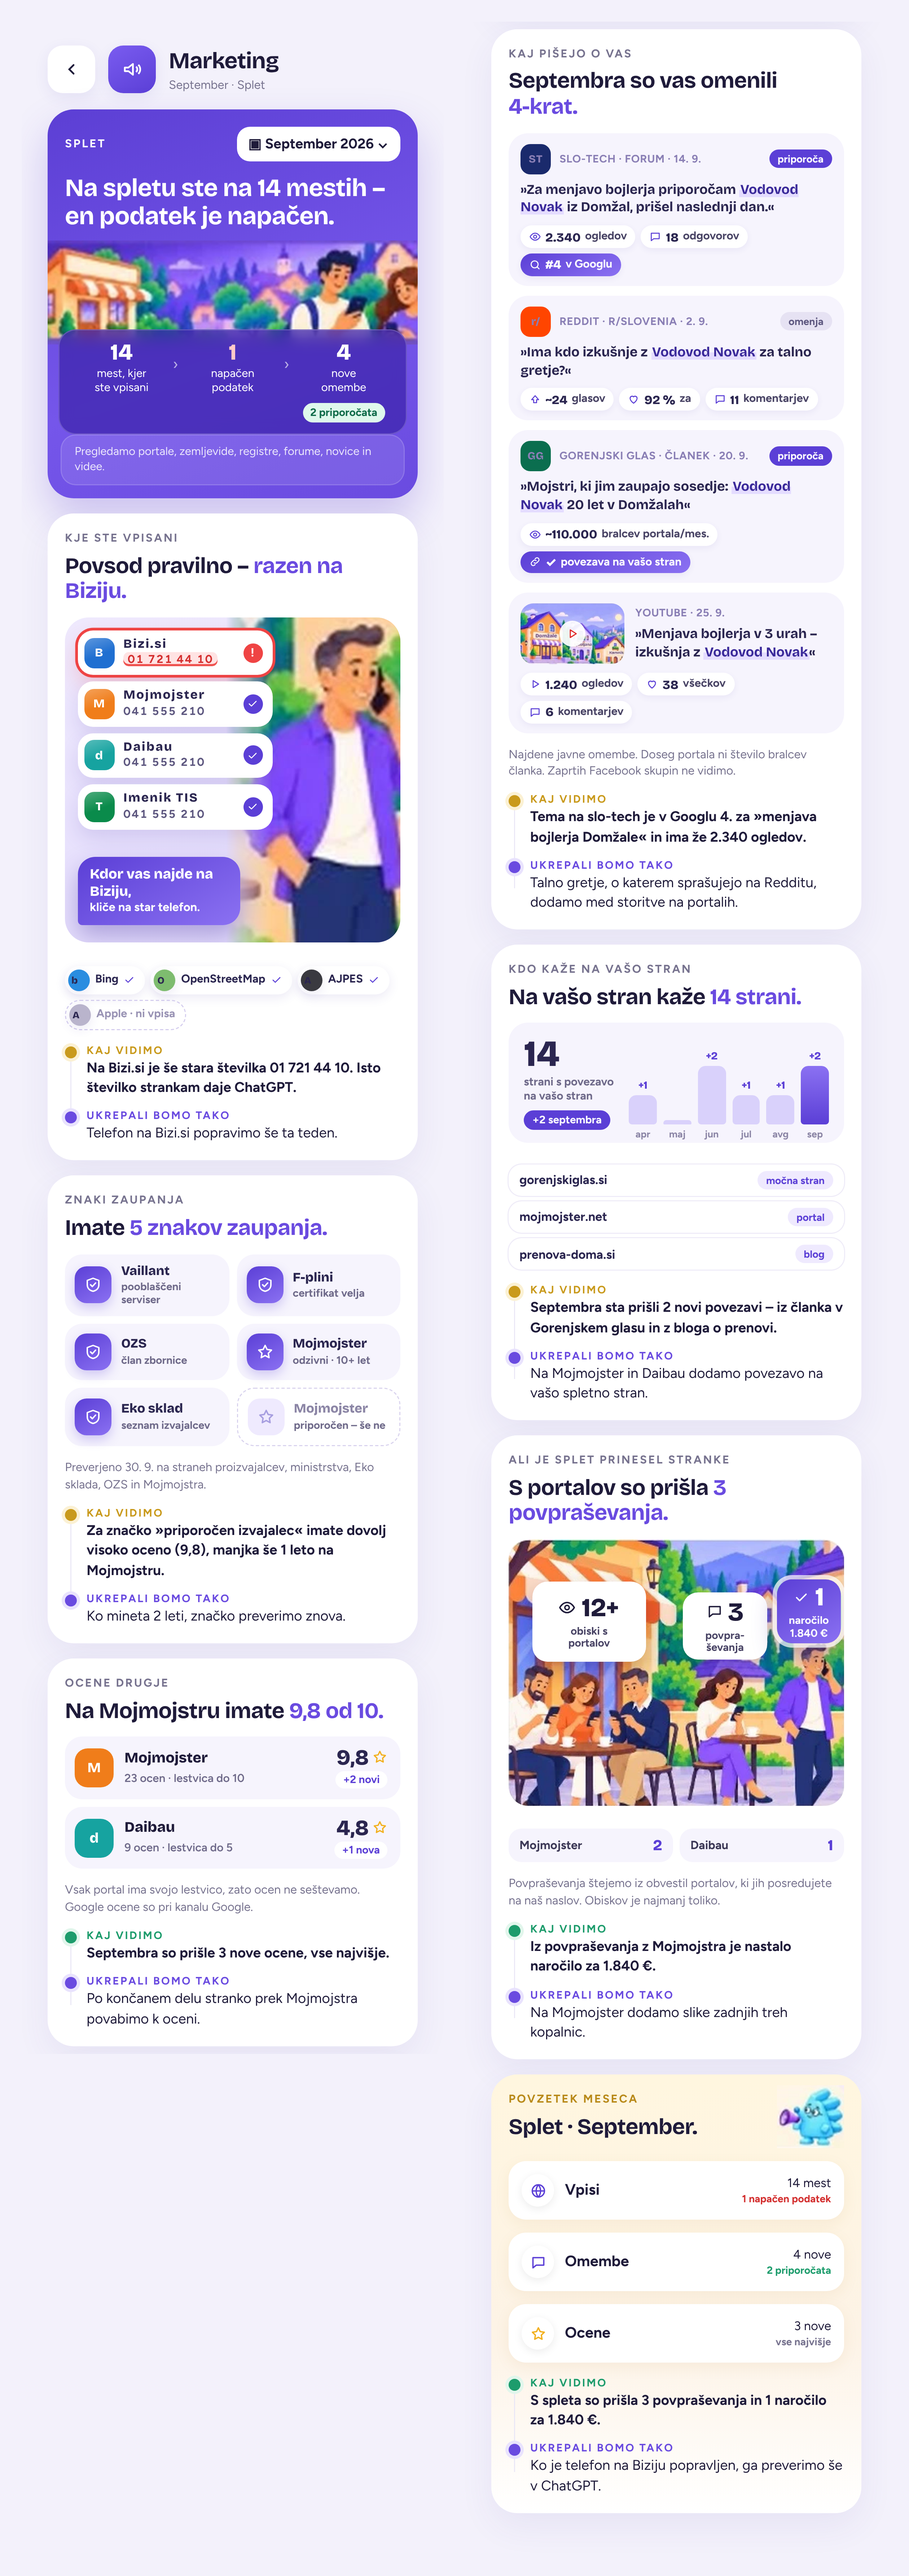
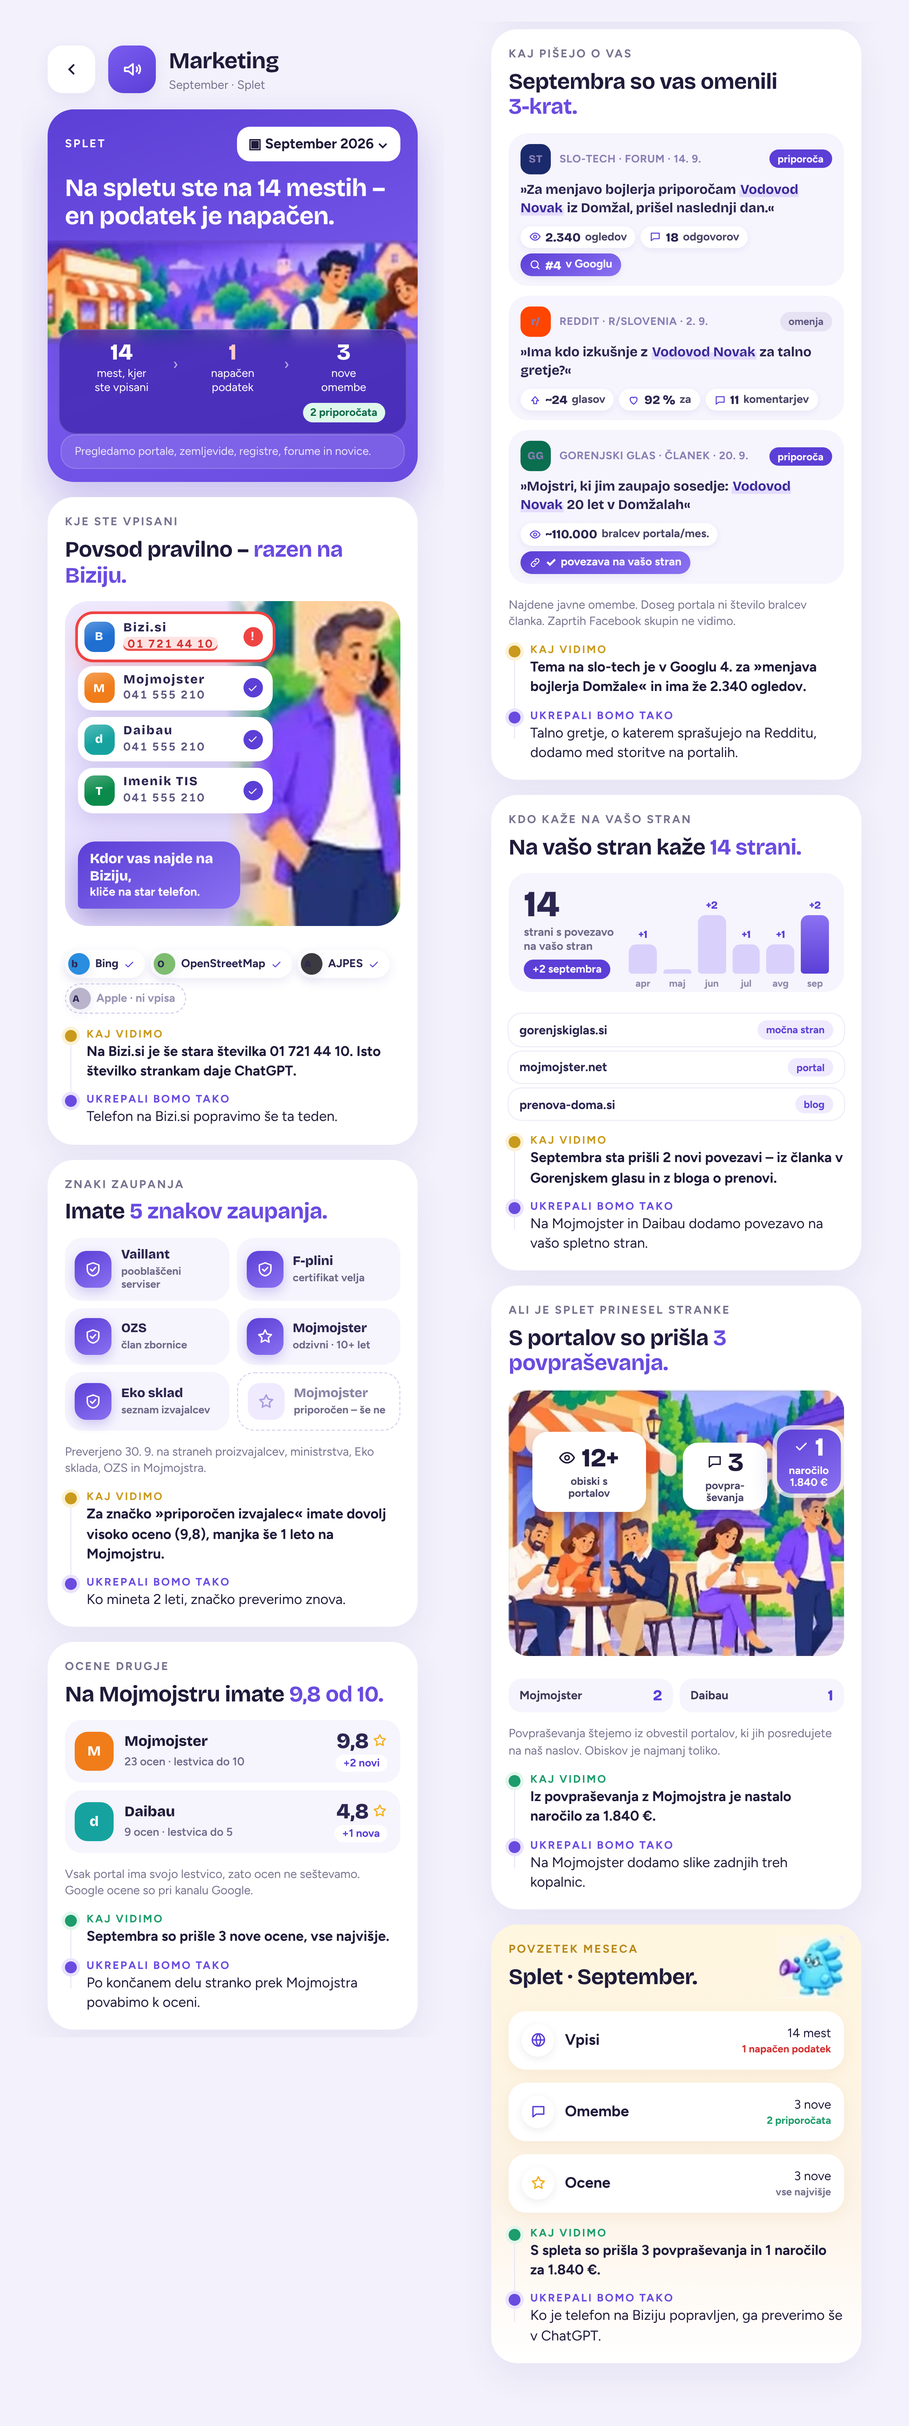
docs: Splet – YouTube izločen v ločen kanal
Claude-Session: https://claude.ai/code/session_01WHRGRb6JxsE1so6sHvV2Pq

Changed region(s): [[0.5262, 0.0, 0.9595, 0.9688], [0.031, 0.0, 0.4643, 0.8125]]

diff --git a/docs/MARKETING-ANALITIKA-SPLET-PREVERBA.md b/docs/MARKETING-ANALITIKA-SPLET-PREVERBA.md
@@ -8,10 +8,10 @@ Datum: 7. 10. 2026. Raziskava je bila razdeljena na devet delov:
 5. številke Reddita;
 6. številke forumov in portalov;
 7. novice in mediji;
-8. povezave, blogi in YouTube;
+8. povezave, blogi in YouTube (YouTube je odslej ločen kanal);
 9. popoln popis vrst mest.
 
-**Kaj je Splet:** vsa mesta na internetu zunaj obrtnikove spletne strani, Google profila in lastnih družbenih omrežij, kjer je obrtnik **vpisan, omenjen, priporočen ali povezan**. To so portali, zemljevidi, registri, partnerji proizvajalcev, forumi, Reddit, novice, občinska glasila, blogi in videi.
+**Kaj je Splet:** vsa mesta na internetu zunaj obrtnikove spletne strani, Google profila, lastnih družbenih omrežij in **YouTuba (ločen kanal)**, kjer je obrtnik **vpisan, omenjen, priporočen ali povezan**. To so portali, zemljevidi, registri, partnerji proizvajalcev, forumi, Reddit, novice, občinska glasila in blogi.
 
 **Omejitev raziskave:** omrežni proxy je blokiral neposredno branje večine strani. Podatki so iz iskalnikov in sekundarnih virov. Kar ni potrjeno na viru, je označeno z **[preveri]**. Pogojev uporabe portalov nismo prebrali v celoti. Do pravne preverbe velja: **brez množičnega strganja**. Dovoljeni so samo API-ji, profili posameznega obrtnika v nizki frekvenci in podatki, ki jih vnese ali poveže obrtnik.
 
@@ -30,7 +30,6 @@ Datum: 7. 10. 2026. Raziskava je bila razdeljena na devet delov:
    - forumska tema: ogledi, odgovori, zadnja aktivnost;
    - Reddit: glasovi, delež glasov za, komentarji, velikost skupnosti;
    - članek: doseg portala na mesec (MOSS), povezava na vašo stran;
-   - video: ogledi, všečki, komentarji;
    - za vse: **položaj v Googlu** za lokalno iskanje.
 3. **Omemb je malo** (0–3 na leto na vrsto). Zato ne kažemo odstotkov tona ali trendov. Kažemo vsako omembo posebej, z njenimi številkami.
 4. **Napačen podatek na vpisu je najpomembnejša številka strani.** Imeniki in zemljevidi (Bing, Apple, Foursquare, OSM) so ~42 % virov, ki jih navajajo AI asistenti. Napačen telefon na Biziju gre naravnost v ChatGPT.
@@ -53,7 +52,7 @@ Datum: 7. 10. 2026. Raziskava je bila razdeljena na devet delov:
 | 7 | Reddit | r/Slovenia, r/ljubljana | r/de, r/Handwerker, r/Austria | nizek v SI, srednji v DE |
 | 8 | Novice in mediji | 24ur, Žurnal24, regionalni (Gorenjski glas, Sobotainfo, Dolenjski list …), **občinska glasila** (npr. Slamnik) | Lokalzeitung, Gemeindeblatt, meinbezirk.at | srednji (redko, a močno) |
 | 9 | Blogi in seznami »najboljši« | blogi o prenovi, »10 najboljših vodoinštalaterjev« | isto | srednji (AI jih pogosto navaja) |
-| 10 | Video | YouTube | YouTube | srednji |
+| — | Video (YouTube) | — | — | **ločen kanal**, ni na tej strani |
 | 11 | Javna naročila | e-JN / enarocanje.si, Erar | TED, auftrag.at | nizek (samo del obrtnikov) |
 | 12 | Zaposlitveni portali | MojeDelo, Optius | **Kununu**, StepStone, karriere.at | nizek |
 | 13 | Lokalne skupnosti | občinski imeniki, TIC | nebenan.de, Nextdoor | nizek |
@@ -80,7 +79,6 @@ Datum: 7. 10. 2026. Raziskava je bila razdeljena na devet delov:
 | **Haustechnikdialog / Bauexpertenforum** | odgovori in ogledi (oznake stolpcev [preveri]), reakcije | seznam foruma | da (DE) |
 | **Reddit** | `score` (približek, »vote fuzzing«), `upvote_ratio`, `num_comments`, `created_utc`, `subreddit_subscribers`; **ogledi in delitve samo za avtorja** | iskalni API (`site:reddit.com`); neposreden API samo z odobritvijo in pogodbo | **da**: glasovi, % za, komentarji, velikost skupnosti |
 | **Članek (novice, glasilo, blog)** | medij, datum, naslov, URL, **povezava na vašo stran** (dofollow/nofollow), **doseg portala na mesec (MOSS)**, položaj na seznamu »najboljših« | DataForSEO News, Event Registry, lasten pregled HTML, MOSS lestvica | **da**; obisk posameznega članka **ni javen**, AVE **ne** |
-| **YouTube** | `viewCount`, `likeCount`, `commentCount`, datum | YouTube Data API (search 100 enot, 10.000 na dan) | **da**; hramba statistik 30 dni [preveri] |
 | **Povezave na vašo stran** | število strani, ki kažejo na vas, nove in izgubljene na mesec, vir, dofollow | DataForSEO Backlinks (< 0,10 $ na mesec) | **da**, brez DR/»authority« številk |
 | **Google (vse zgoraj)** | **položaj** URL-ja teme, članka ali profila za lokalno iskanje | DataForSEO / SerpApi (`gl=si`, lokacija) | **da**: »#4 za ›bojler Domžale‹«, z datumom meritve |
 | **e-JN / TED** | pridobljeni posli, vrednost, naročnik | iskalnik / TED API | **ne** v prvi različici |
@@ -103,12 +101,12 @@ Datum: 7. 10. 2026. Raziskava je bila razdeljena na devet delov:
 |---|---|
 | **Vpisi in ujemanje podatkov** | Mesečno preverimo ime, naslov, telefon, splet in delovni čas proti glavnemu zapisu na potrjenih profilih, zemljevidih (OSM, Bing, Apple) in v registrih. |
 | **Značke zaupanja** | Mesečno preverimo partnerje proizvajalcev (po dejavnosti), F-plin, Eko sklad, OZS/HWK in Mojmojster značke. |
-| **Omembe** | Tedensko: iskalni API (Brave / DataForSEO) za ime + kraj, ime + dejavnost, telefon, omejeno na forume, Reddit in novice. Novice še prek DataForSEO News / Event Registry, YouTube prek Data API. LLM preveri, ali gre za tega obrtnika (potrjeno / verjetno / izključeno) in ali omemba priporoča, omenja ali je pritožba. |
+| **Omembe** | Tedensko: iskalni API (Brave / DataForSEO) za ime + kraj, ime + dejavnost, telefon, omejeno na forume, Reddit in novice. Novice še prek DataForSEO News / Event Registry. Omembe v YouTube videih so v kanalu YouTube. LLM preveri, ali gre za tega obrtnika (potrjeno / verjetno / izključeno) in ali omemba priporoča, omenja ali je pritožba. |
 | **Številke omembe** | Ob najdbi in nato enkrat na teden 4 tedne preberemo ogledi/odgovori/glasovi/komentarji (glej A.1). |
 | **Položaj v Googlu** | Za vsako potrjeno omembo enkrat na mesec 2–3 lokalne poizvedbe (storitev + kraj, ime + »izkušnje«), top 20. |
 | **Doseg medija** | MOSS mesečni doseg, če je portal vključen. Sicer brez številke. |
 | **Povezave** | DataForSEO Backlinks enkrat na mesec: nove, izgubljene, skupaj. |
-| **Povpraševanja** | posredovana obvestila portalov na `portal+<token>@…`, »Kako ste izvedeli za nas?« (+ možnosti »portal«, »forum / Reddit«, »članek / novice«, »YouTube«), UTM na profilih. |
+| **Povpraševanja** | posredovana obvestila portalov na `portal+<token>@…`, »Kako ste izvedeli za nas?« (+ možnosti »portal«, »forum / Reddit«, »članek / novice«), UTM na profilih. |
 | **Obiski** | referrer in UTM na strani, ki jo gostimo, ujemanje z domeno omembe. Vedno »najmanj N«. |
 
 ---
@@ -117,7 +115,7 @@ Datum: 7. 10. 2026. Raziskava je bila razdeljena na devet delov:
 
 | # | Vprašanje | Odgovor |
 |---|---|---|
-| 1 | Ali me vidijo? | vpisi + doseg omemb (ogledi teme, doseg portala, ogledi videa) + položaj v Googlu |
+| 1 | Ali me vidijo? | vpisi + doseg omemb (ogledi teme, doseg portala) + položaj v Googlu |
 | 2 | Ali me kontaktirajo? | povpraševanja s Spleta |
 | 3 | Kdo čaka? | ni na tej strani |
 | 4 | Kaj pišejo? | omembe s citatom in številkami |
@@ -166,7 +164,7 @@ Datum: 7. 10. 2026. Raziskava je bila razdeljena na devet delov:
 
 ## G. Štetje
 
-- **Brez seštevanja ogledov** med viri (forum, Reddit, video, portal merijo različno).
+- **Brez seštevanja ogledov** med viri (forum, Reddit, portal merijo različno).
 - **Doseg portala ni bralec članka.** Napis je vedno »portal doseže ~N ljudi na mesec«.
 - **Glasovi na Redditu so približek.**
 - **Položaj v Googlu** ima datum in kraj meritve.
@@ -181,13 +179,11 @@ Datum: 7. 10. 2026. Raziskava je bila razdeljena na devet delov:
 - **Strganje:** baze imenikov so zaščitene (96/9/ES, § 87b UrhG), ToS prepovedi veljajo (C-30/14). Beremo samo profil posameznega obrtnika ali uporabimo API. Pred zagonom pravno preverimo ToS [preveri].
 - **Novice:** pravica izdajateljev (SI **ZASP-I, 139.a čl.**; DE § 87f–87k UrhG). Prikažemo naslov, medij, datum in povezavo, citata iz članka ne.
 - **Reddit:** Responsible Builder Policy (11. 11. 2025), komercialna raba po pogodbi. Uporabljamo iskalni API. Hranimo ID in številke, ne besedila. Izbrisano odstranimo.
-- **YouTube:** hramba statistik brez avtorizacije 30 dni [preveri spremembe 5–6/2026].
 - **GDPR:** zakoniti interes (6(1)(f), C-621/22) + LIA. Ne hranimo vzdevkov in imen drugih oseb. Izseki 12 mesecev, metapodatki 24 mesecev [predlog]. Negativne članke vidi samo obrtnik.
 - **Strošek na obrtnika na mesec:**
   - iskalni API in SERP: < 0,30 $;
   - Backlinks: < 0,10 $;
   - Event Registry: delež paketa ~90 $/mes;
-  - YouTube: brezplačno (kvota ~700 obrtnikov na teden);
   - LLM: ~0,05 $.
 
 ---
@@ -212,13 +208,12 @@ Datum: 7. 10. 2026. Raziskava je bila razdeljena na devet delov:
 5. **Kaj pišejo o vas:** vsaka omemba z vrstico številk.
    - forum: ogledi · odgovori · #N v Googlu;
    - Reddit: ▲ glasovi · % za · komentarji · velikost skupnosti;
-   - članek: medij · doseg portala · ✓ povezava na vašo stran;
-   - video: ogledi · všečki · komentarji.
+   - članek: medij · doseg portala · ✓ povezava na vašo stran.
 6. **Kdo kaže na vašo stran:** »14 strani, septembra +2« + stolpci zadnjih 6 mesecev.
 7. **Ali je splet prinesel stranke:** ilustracija z obiski, povpraševanji in naročilom.
 8. **Povzetek.**
 
-**Namenoma ne:** % tona, AVE, doseg članka, DR, skupno povprečje ocen, bonitete, Kununu, javna naročila, seznam »kje manjkate« z gumbi.
+**Namenoma ne:** YouTube (ločen kanal), % tona, AVE, doseg članka, DR, skupno povprečje ocen, bonitete, Kununu, javna naročila, seznam »kje manjkate« z gumbi.
 
 ---
 
